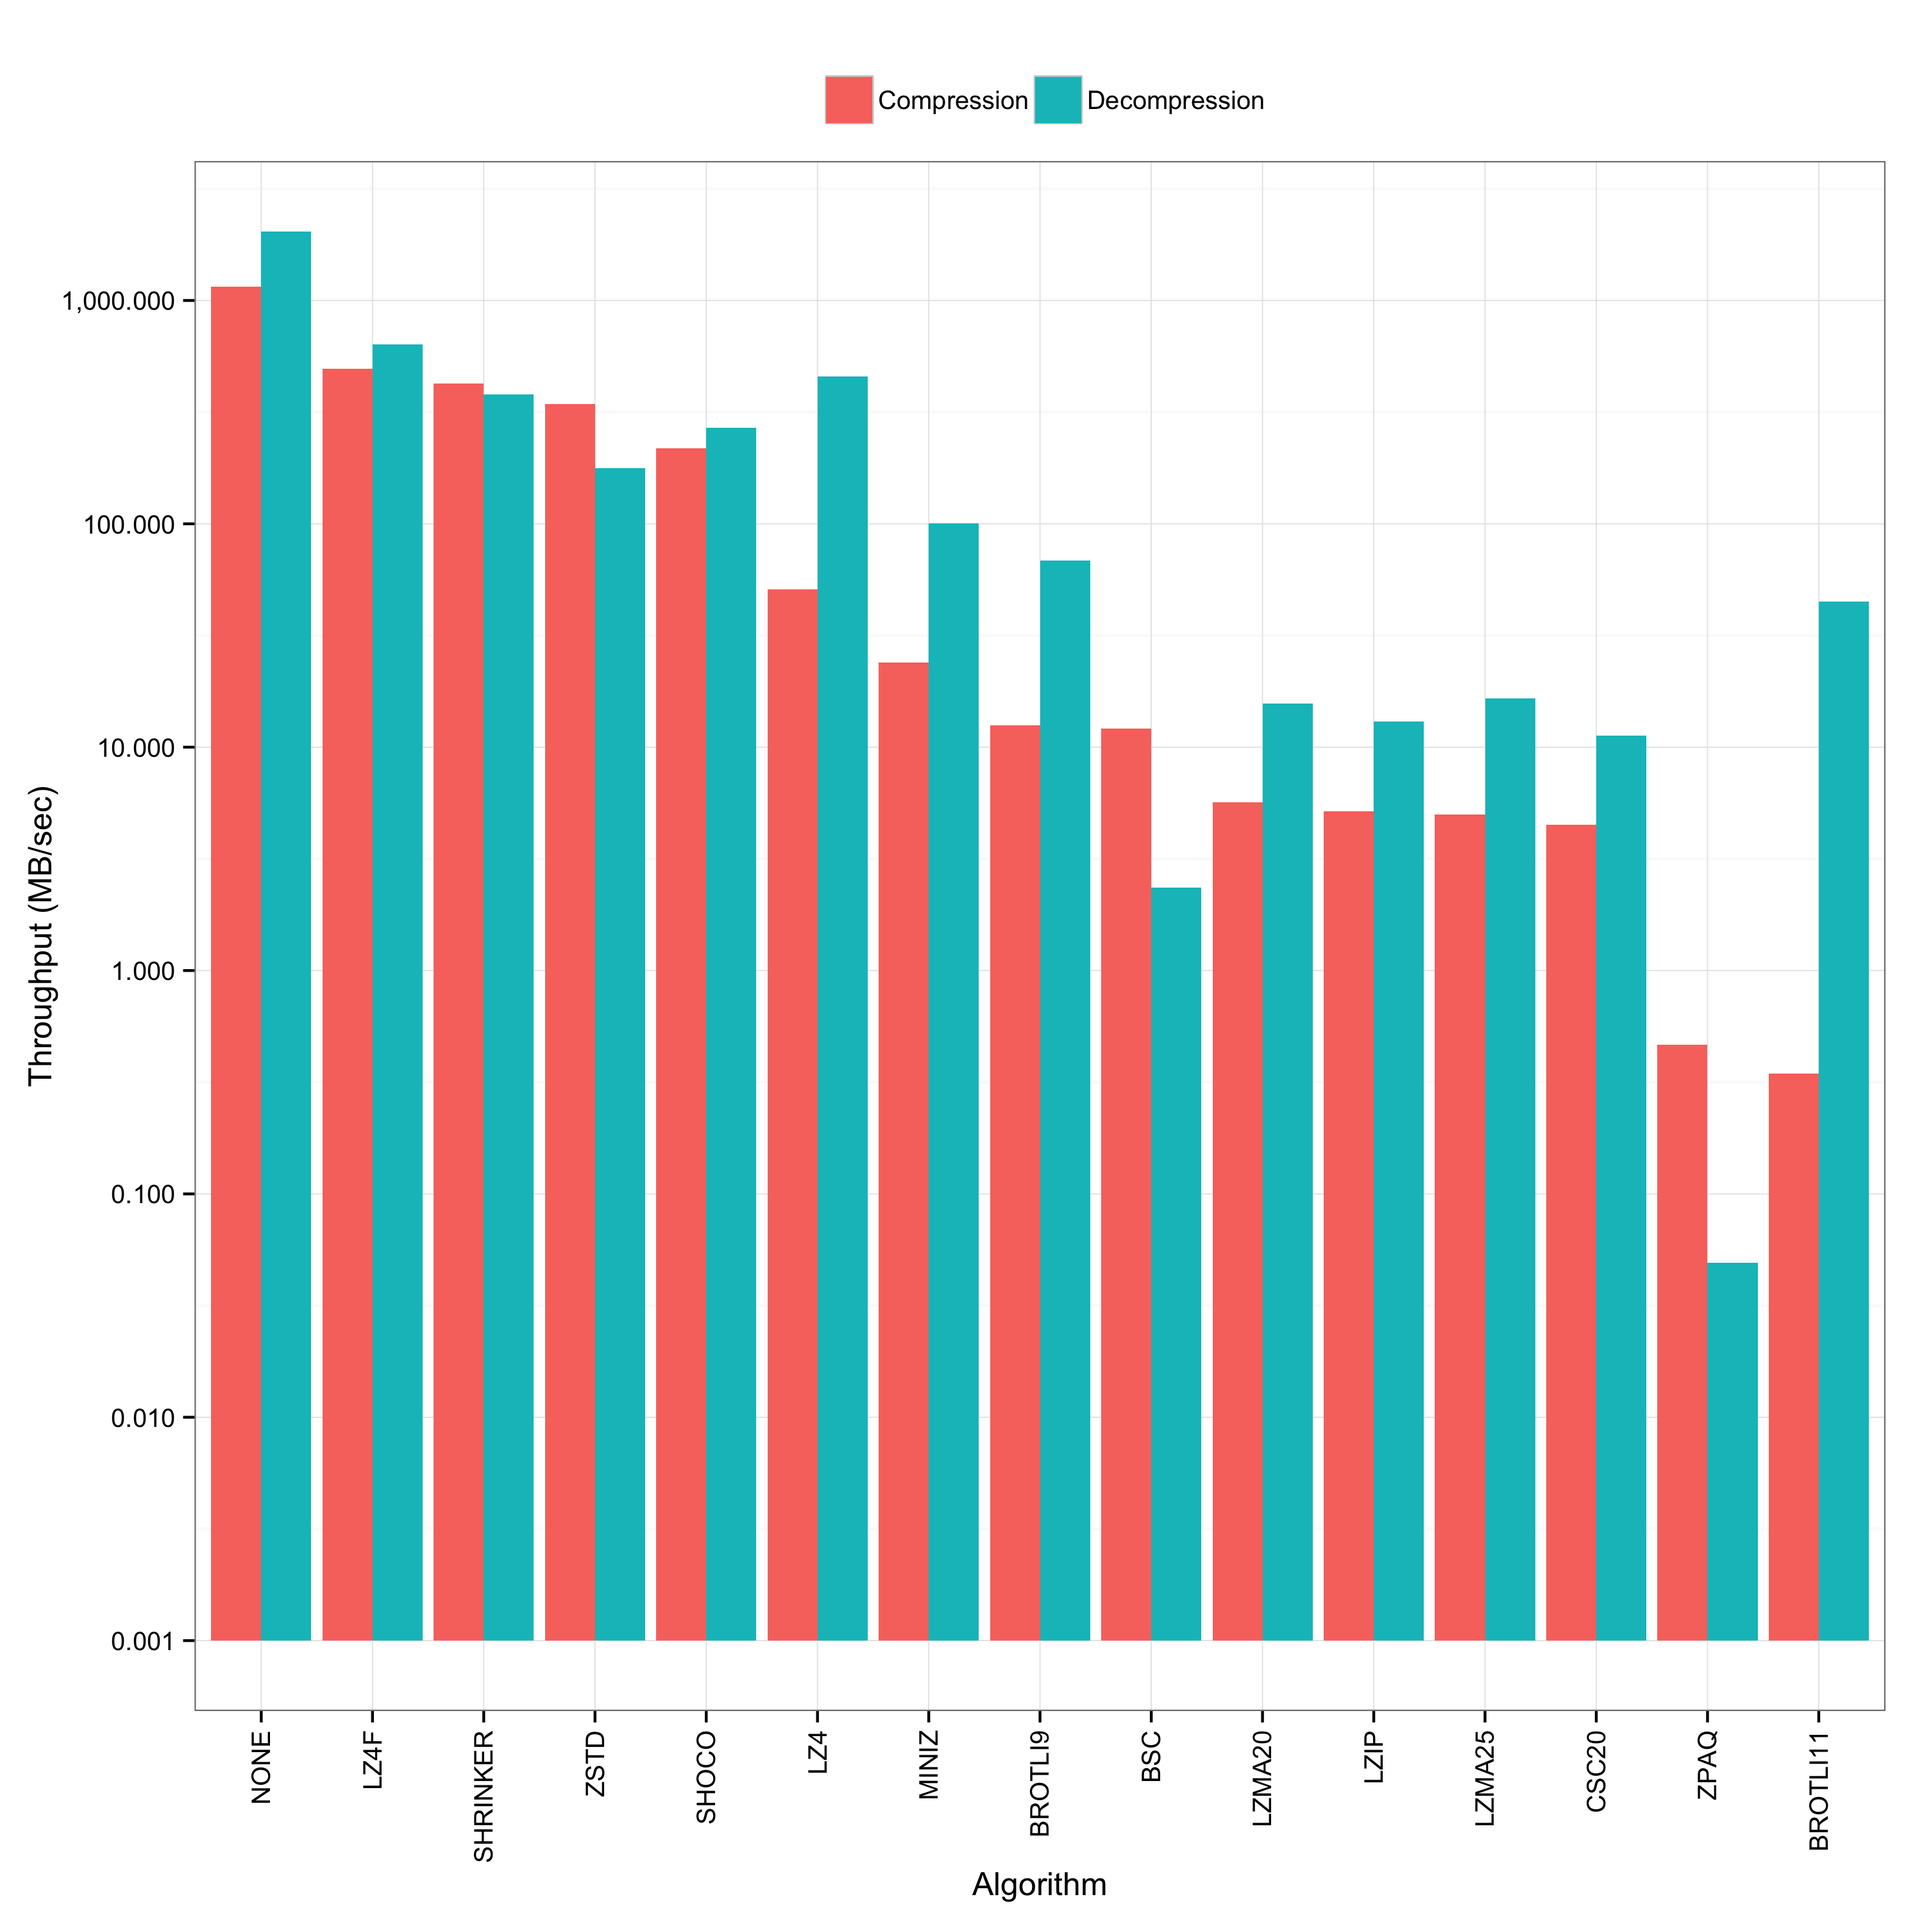
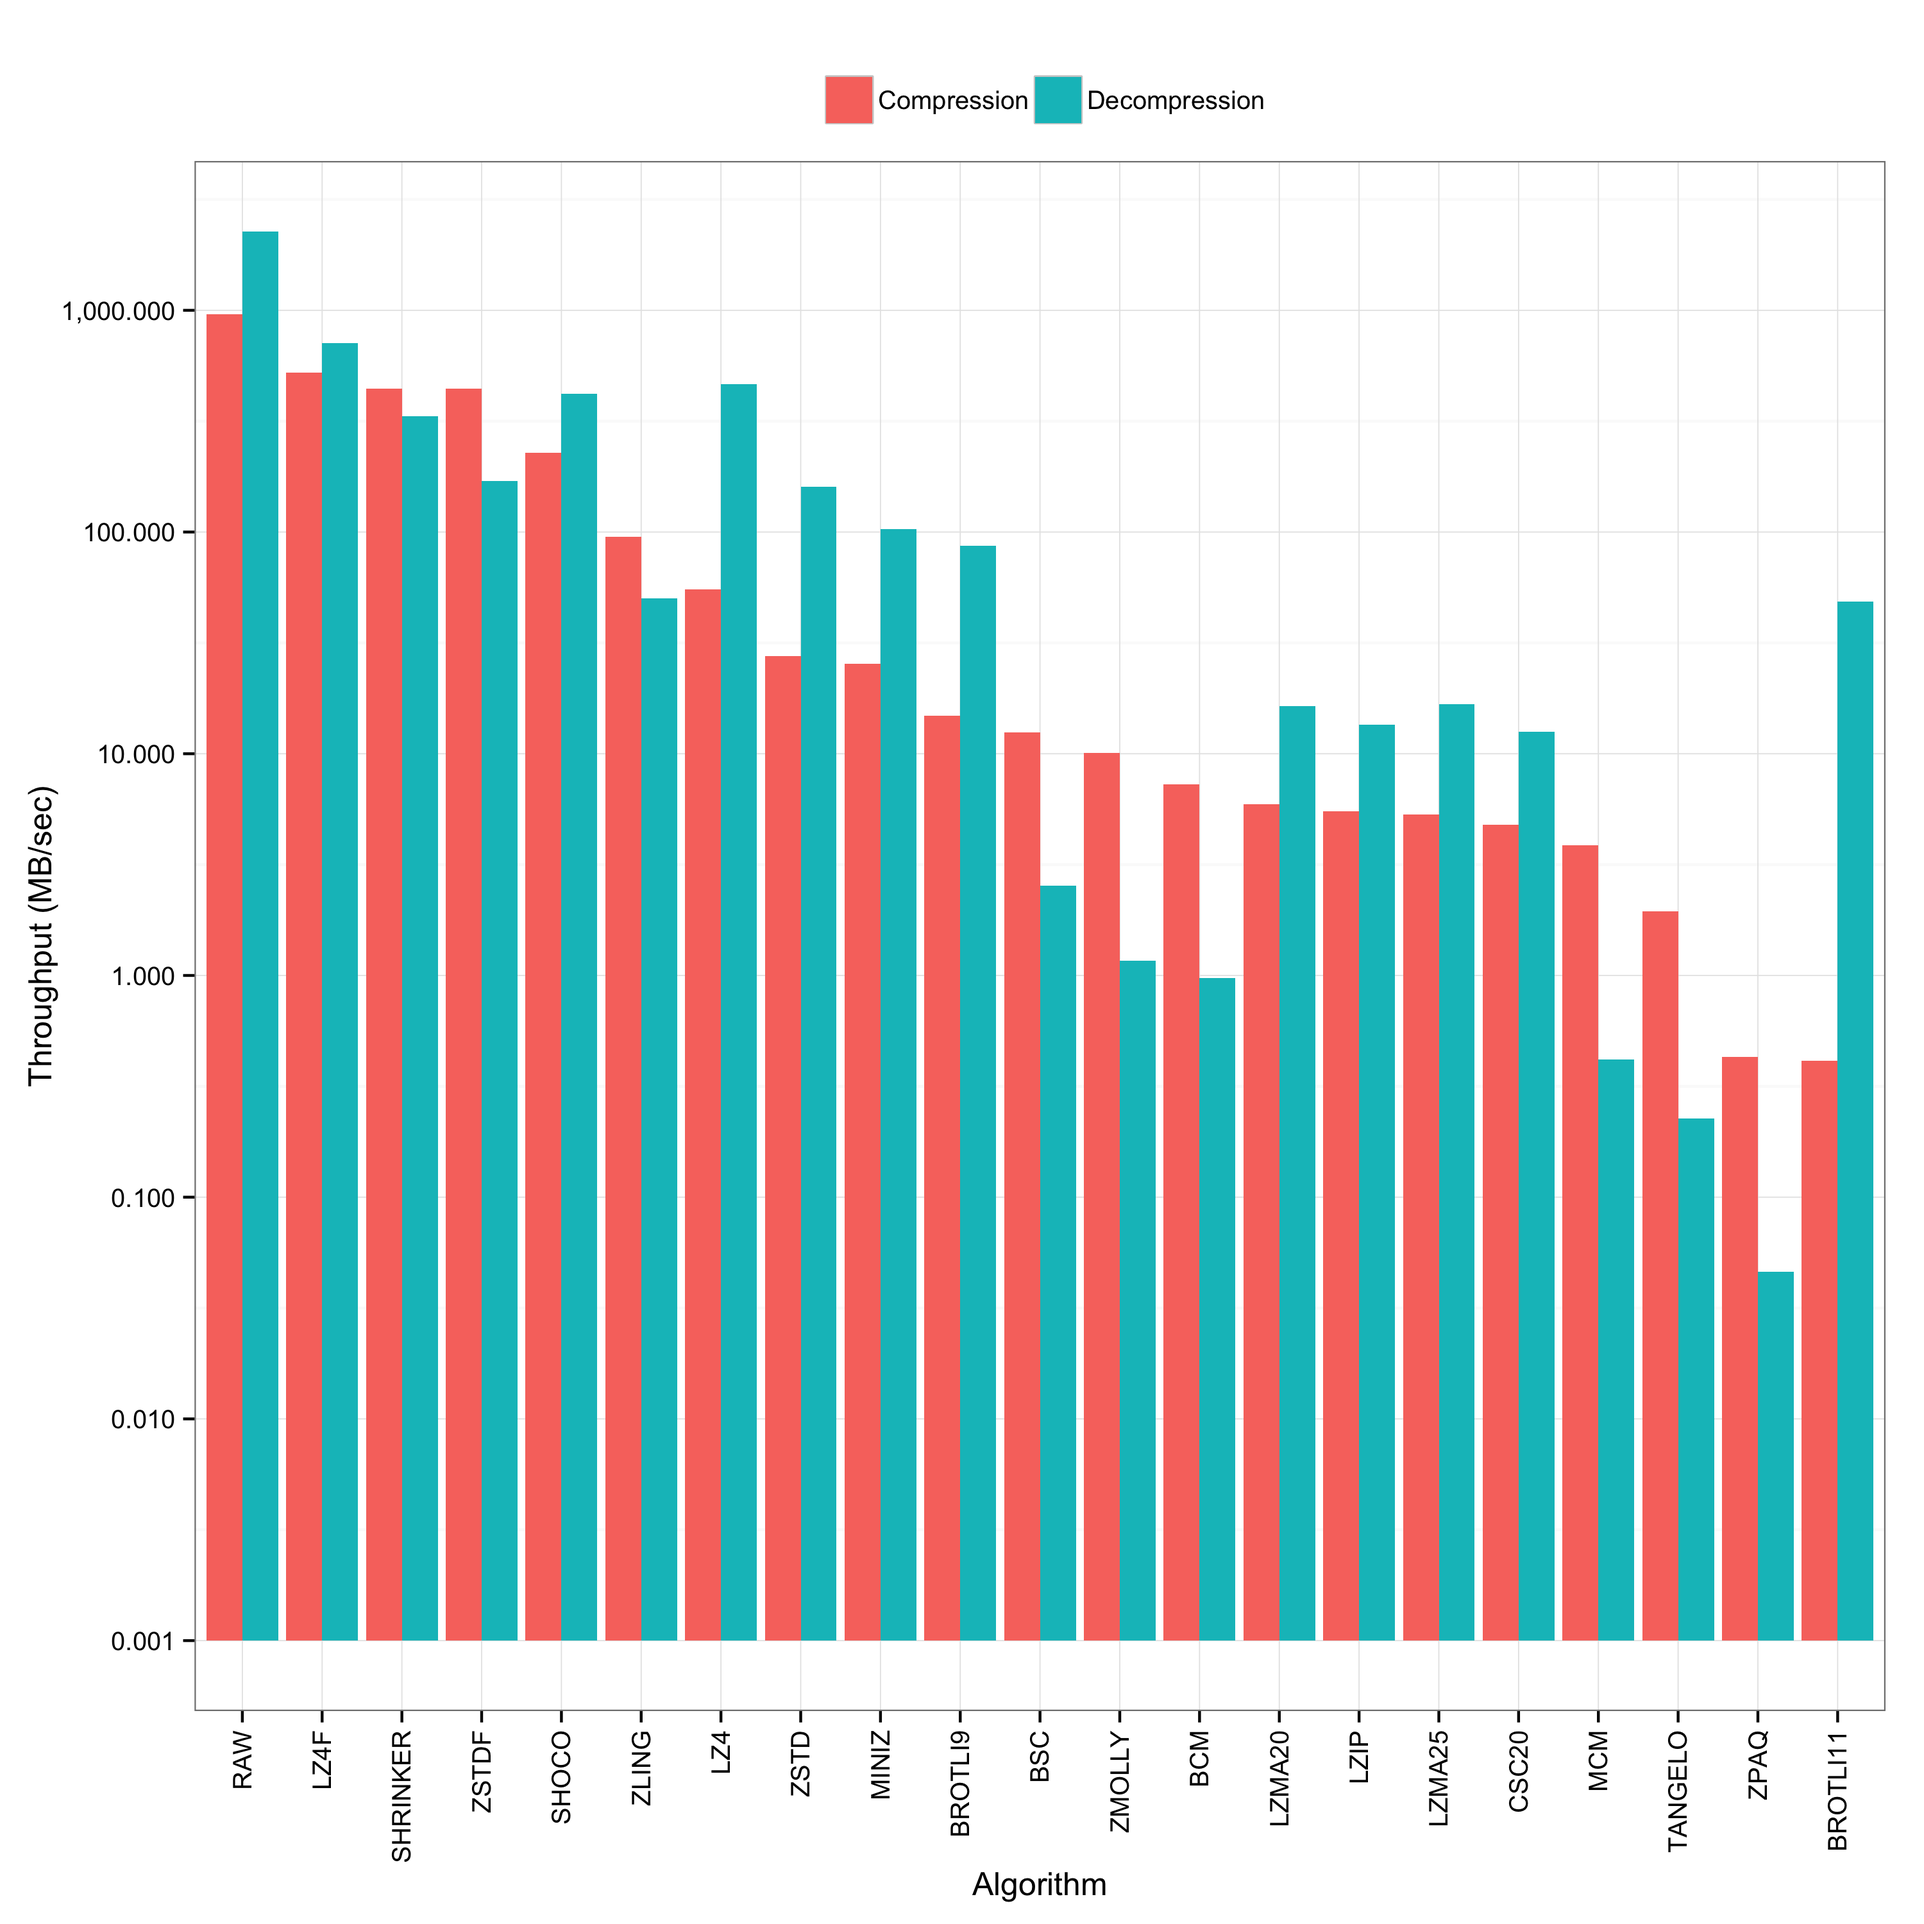
Update to most recent bundle version
In addition:

  - Support file prefix in plot script.

  - Make plot generation more flexible via Makefile.

  - Update screenshots.

  - New algorithms: LZMA25, BSC, CSC20, ZSTDF, BCM, ZLING, MCM,
                    TANGELO, ZMOLLY

diff --git a/benchmark.cpp b/benchmark.cpp
@@ -49,9 +49,11 @@ auto main() -> int {
 #endif
   std::string buffer{std::istreambuf_iterator<char>{std::cin},
                       std::istreambuf_iterator<char>{}};
-  std::vector<unsigned> libs{RAW, SHOCO, LZ4F, MINIZ, LZIP, LZMA20, ZPAQ, LZ4,
-                             BROTLI9, ZSTD, LZMA25, BSC, BROTLI11, SHRINKER,
-                             CSC20};
+  std::vector<unsigned> libs{
+    RAW, SHOCO, LZ4F, MINIZ, LZIP, LZMA20, ZPAQ,
+    LZ4, BROTLI9, ZSTD, LZMA25, BSC, BROTLI11, SHRINKER,
+    CSC20, ZSTDF, BCM, ZLING, MCM, TANGELO, ZMOLLY
+  };
   auto to_mus = [](std::chrono::high_resolution_clock::duration d) {
     return std::chrono::duration_cast<std::chrono::microseconds>(d).count();
   };
